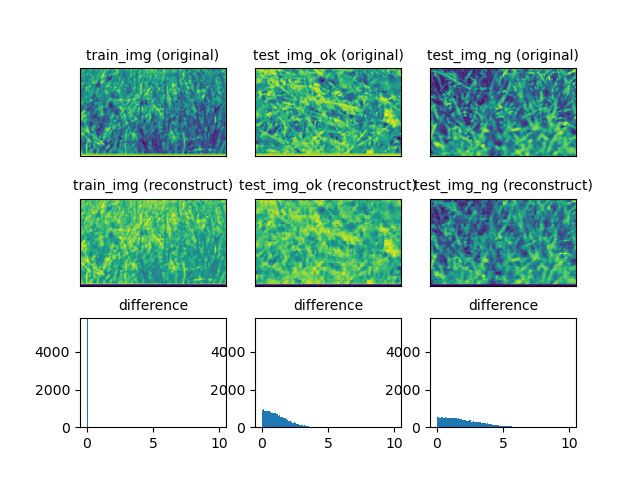
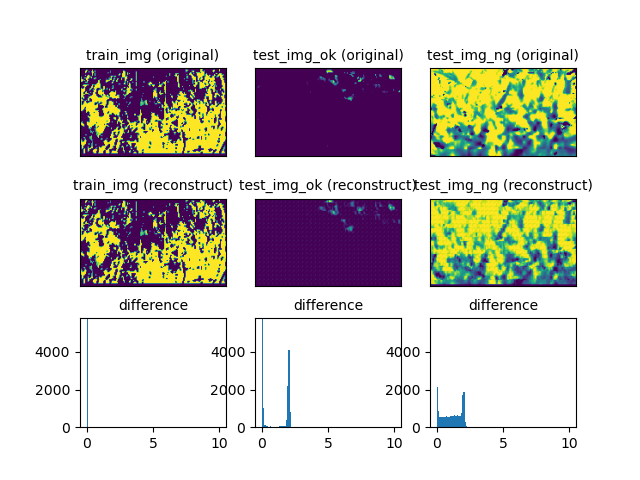
Feature_img Function has built

diff --git a/window_detect_irregular.py b/window_detect_irregular.py
@@ -8,6 +8,8 @@ from spmimage.feature_extraction.image import extract_simple_patches_2d, reconst
 import matplotlib.pyplot as plt
 import sys
 
+from FEATURE import Feature_img
+
 
 
 
@@ -235,79 +237,121 @@ def make_sharp_kernel(k: int):
 
 
 
-# 本編
-"""
-（学習に関するパラメータについて）
-patch_size : 学習用の画像を学習のために分割した際の、分割された画像(=patch)１つ１つのサイズ
-n_components : 生成する基底ベクトルの本数
-transform_n_nonzero_coefs : 画像を再構成するために使用を許される基底ベクトルの本数。言い換えれば、Xの非ゼロ成分の個数（L0ノルム）
-max_iter : 詳細未詳。学習の反復回数の上限？
-"""
+
+
+
+
+# OpenCVによるエッジ強調（現在は標準入力でカーネルパラメータ指定）
+def edge_Enphasis():
+    edge_enphasis = sys.argv
+    if len(edge_enphasis)<2:
+        print(f'No argument "edge_enphasis" :python {edge_enphasis[0]} true;str kernel-param;int or false;str')
+        sys.exit()
+
+    if edge_enphasis[1]=="true":
+        img = cv2.imread("img_data/data_old/img_train_RPC.jpg")
+        img = cv2.cvtColor(img, cv2.COLOR_BGR2RGB)
+        k = 1
+        kernel = np.array([[0, 1, 0],
+                           [1, -4, 1],
+                           [0, 1, 0]], np.float32)
+        img = cv2.filter2D(img, -1, kernel)
+        cv2.imwrite("img_data/use_img/img_train_RPC.jpg", img)
+    elif edge_enphasis[1]=="false":
+        img = cv2.imread("img_data/data_old/img_train_RPC.jpg")
+        cv2.imwrite("img_data/use_img/img_train_RPC.jpg", img)
+    else:
+        print(f'No argument "edge_enphasis" :python {edge_enphasis[0]} true;str kernel-param;int or false;str')
+        sys.exit()
+
+
+def read_img(path_list):
+    treat = Feature_img(path_list)
+    feature = sys.argv
+    if len(feature)<2:
+        pass
+    
+    elif feature[1]=="vari":
+        treat.vari()
+        path_list = treat.output()
+    
+    elif feature[1]=="enphasis":
+        treat.enphasis()
+        path_list = treat.output()
+    else:
+        print(f"{feature[1]} was not found in Feature_img Function.\nFeatures are vari, enphasis, or nothing as normal.")
+        sys.exit()
+        
+    # 一旦二分の一で画像上部排除
+    train_img = np.asarray(Image.open(path_list[0]).convert('L'))
+    test_img_ok=np.asarray(Image.open(path_list[1]).convert('L'))
+    test_img_ng=np.asarray(Image.open(path_list[2]).convert('L'))
+    train_img = train_img[int(0.5*train_img.shape[0]):]
+    test_img_ok = test_img_ok[int(0.5*test_img_ok.shape[0]):]
+    test_img_ng = test_img_ng[int(-train_img.shape[0]):, :train_img.shape[1]]
+    
+    # 画像を導入
+    """
+    edge_mode=False
+    if edge_mode:
+        train_img = np.asarray(Image.open("img_data/tochigi4_edge.jpg").convert('L'))
+        test_img_ok=np.asarray(Image.open("img_data/tochigi5_edge.jpg").convert('L'))
+        test_img_ng=np.asarray(Image.open("img_data/tochigi7_edge.jpg").convert('L'))
+    else:
+        # 一旦二分の一で画像上部排除
+        train_img = np.asarray(Image.open("img_data/use_img/img_train_RPC.jpg").convert('L'))
+        train_img = train_img[int(0.5*train_img.shape[0]):]
+        test_img_ok=np.asarray(Image.open("img_data/data_old/img_test_ok_RPC.jpg").convert('L'))
+        test_img_ok = test_img_ok[int(0.5*test_img_ok.shape[0]):]
+        test_img_ng=np.asarray(Image.open("img_data/data_old/img_1.jpg").convert('L'))
+        test_img_ng = test_img_ng[int(-train_img.shape[0]):, :train_img.shape[1]]
+    """
+    return train_img, test_img_ok, test_img_ng    
+    
+
+def window_detect(train_img, test_img_ok, test_img_ng):
+    # 探査領域の分割数を指定
+    detect_shape = (2, 3)
+
+    # 各画像を探査領域に分割してリストに収納
+    train_img_list, test_img_ok_list, test_img_ng_list, partial_size = img_window(train_img, test_img_ok, test_img_ng, detect_shape)
+
+    # 各探査領域に対して異常検出を行う
+    for k in range(prod(detect_shape)):
+        estimate(train_img_list[k], test_img_ok_list[k], test_img_ng_list[k], partial_size, d_num=k+1)
+
+
+def main():
+    # 本編
+    """
+    （学習に関するパラメータについて）
+    patch_size : 学習用の画像を学習のために分割した際の、分割された画像(=patch)１つ１つのサイズ
+    n_components : 生成する基底ベクトルの本数
+    transform_n_nonzero_coefs : 画像を再構成するために使用を許される基底ベクトルの本数。言い換えれば、Xの非ゼロ成分の個数（L0ノルム）
+    max_iter : 詳細未詳。学習の反復回数の上限？
+    """
+    """
+    （用いる画像について）
+    train_img   : 学習に用いる画像（１枚のみ）。スタック「しない」状況の画像
+    test_img_ok : スタック「しない」状況のためのテスト用画像
+    test_img_ng : スタック「する」状況(=異常)のためのテスト用画像
+
+    ＊全てモノクロに直して処理。
+    """
+    path_list = ["img_data/data_old/img_train_RPC.jpg", 
+                "img_data/data_old/img_test_ok_RPC.jpg",
+                "img_data/data_old/img_1.jpg"]
+    # edge_Enphasis()
+    train_img, test_img_ok, test_img_ng = read_img(path_list)
+    window_detect(train_img, test_img_ok, test_img_ng)
+    
+    
 patch_size=(5,5)
 n_components=6
 transform_n_nonzero_coefs=3
 max_iter=15
 
 
-
-# OpenCVによるエッジ強調（現在は標準入力でカーネルパラメータ指定）
-
-edge_enphasis = sys.argv
-if len(edge_enphasis)<2:
-    print(f'No argument "edge_enphasis" :python {edge_enphasis[0]} true;str kernel-param;int or false;str')
-    sys.exit()
-
-if edge_enphasis[1]=="true":
-    img = cv2.imread("img_data/img_train_RPC.jpg")
-    img = cv2.cvtColor(img, cv2.COLOR_BGR2RGB)
-    try:
-        kernel = make_sharp_kernel(int(edge_enphasis[2]))
-    except:
-        print(f'"kernel-param" should be given as int:python {edge_enphasis[0]} true;str kernel-param;int or false;str')
-        sys.exit()
-    img = cv2.filter2D(img, -1, kernel)
-    cv2.imwrite("results_data/img_train_RPC.jpg", img)
-    plt.figure(figsize=(10,8))
-    plt.imshow(img)
-    plt.show()
-elif edge_enphasis[1]=="false":
-    img = cv2.imread("img_data/img_train_RPC.jpg")
-    cv2.imwrite("results_data/img_train_RPC.jpg", img)
-else:
-    print(f'No argument "edge_enphasis" :python {edge_enphasis[0]} true;str kernel-param;int or false;str')
-    sys.exit()
-
-
-"""
-（用いる画像について）
-train_img   : 学習に用いる画像（１枚のみ）。スタック「しない」状況の画像
-test_img_ok : スタック「しない」状況のためのテスト用画像
-test_img_ng : スタック「する」状況(=異常)のためのテスト用画像
-
-＊全てモノクロに直して処理。
-"""
-# 画像を導入
-edge_mode=False
-if edge_mode:
-    train_img = np.asarray(Image.open("img_data/tochigi4_edge.jpg").convert('L'))
-    test_img_ok=np.asarray(Image.open("img_data/tochigi5_edge.jpg").convert('L'))
-    test_img_ng=np.asarray(Image.open("img_data/tochigi7_edge.jpg").convert('L'))
-else:
-    # 一旦二分の一で画像上部排除
-    train_img = np.asarray(Image.open("results_data/img_train_RPC.jpg").convert('L'))
-    train_img = train_img[int(0.5*train_img.shape[0]):]
-    test_img_ok=np.asarray(Image.open("img_data/data_old/img_test_ok_RPC.jpg").convert('L'))
-    test_img_ok = test_img_ok[int(0.5*test_img_ok.shape[0]):]
-    test_img_ng=np.asarray(Image.open("img_data/data_old/img_1.jpg").convert('L'))
-    test_img_ng = test_img_ng[int(-train_img.shape[0]):, :train_img.shape[1]]
-
-
-# 探査領域の分割数を指定
-detect_shape = (2, 3)
-
-# 各画像を探査領域に分割してリストに収納
-train_img_list, test_img_ok_list, test_img_ng_list, partial_size = img_window(train_img, test_img_ok, test_img_ng, detect_shape)
-
-# 各探査領域に対して異常検出を行う
-for k in range(prod(detect_shape)):
-    estimate(train_img_list[k], test_img_ok_list[k], test_img_ng_list[k], partial_size, d_num=k+1)
+if __name__ == "__main__":
+    main()
+    

diff --git a/FEATURE.py b/FEATURE.py
@@ -1,0 +1,97 @@
+import numpy as np
+import cv2
+from PIL import Image
+from matplotlib import pyplot as plt
+from time import time
+
+class Feature_img():
+    output_img_list = None
+    def __init__(self, path_list):
+        self.path_list = path_list
+
+    def vari(self):
+        self.output_img_list = []
+        for i in range(len(self.path_list)):
+            self.org_img = cv2.imread(self.path_list[i],1)
+
+            self.vari_list_np = np.ones((self.org_img.shape[0],self.org_img.shape[1]), np.float64)
+            self.output_img = np.ones((self.org_img.shape[0],self.org_img.shape[1]), np.uint8)
+            for i in range(self.org_img.shape[0]):
+                for j in range(self.org_img.shape[1]):
+                    vari = 0.0
+                    img_num = 0
+                    b = float(self.org_img[i][j][0])
+                    g = float(self.org_img[i][j][1])
+                    r = float(self.org_img[i][j][2])
+                    if b < 125:
+                        vari_d = g+r-b
+                        if vari_d != 0:
+                            vari = (g-r)/(g+r-b)
+                            if vari < 0.0:
+                                vari = 0.0
+                    else:
+                        vari = 0
+                    # vari = vari*255/9.0
+                    self.vari_list_np[i][j] = vari
+
+            vari_max = np.amax(self.vari_list_np)
+            vari_min = np.amin(self.vari_list_np)
+            print("vari max: "+str(np.amax(self.vari_list_np)))
+            print("vari min: "+str(np.amin(self.vari_list_np)))
+            for i in range(self.org_img.shape[0]):
+                for j in range(self.org_img.shape[1]):
+                    self.vari_list_np[i][j] = 100*(self.vari_list_np[i][j] - vari_min)/(vari_max - vari_min)
+                    if self.vari_list_np[i][j] > 1.0:
+                        self.vari_list_np[i][j] = 1.0
+                    self.vari_list_np[i][j] = 255*self.vari_list_np[i][j]
+                    # print(self.vari_list_np[i][j])
+                    # print(np.uint8(self.vari_list_np[i][j]))
+                    self.output_img[i][j] = np.uint8(self.vari_list_np[i][j])
+            print("len(self.vari_list_np): "+str(self.vari_list_np.shape))
+            print("vari max: "+str(np.amax(self.vari_list_np)))
+            print("vari min: "+str(np.amin(self.vari_list_np)))
+            print(self.vari_list_np)
+
+            #cv2.imshow("self.org_img", cv2.resize(self.org_img,dsize=(534,400)))
+            #cv2.imshow("VARI_img",cv2.resize(self.output_img,dsize=(534,460)))
+
+            self.save_name = f"img_data/use_img/vari_{i}.jpg"
+            cv2.imwrite(self.save_name, self.output_img)
+            self.output_img_list.append(self.save_name)
+        self.output()
+    
+    def enphasis(self):
+        self.output_img_list = []
+        for i in range(len(self.path_list)):
+            self.org_img = cv2.imread(self.path_list[i], 1)
+            self.org_img = cv2.cvtColor(self.org_img, cv2.COLOR_BGR2RGB)
+            kernel = np.array([[0, 1, 0],
+                            [1, -4, 1],
+                            [0, 1, 0]], np.float32)
+            self.output_img = cv2.filter2D(self.org_img, -1, kernel)
+            self.save_name = f"img_data/use_img/edge_enphasis_{i+1}.jpg"
+            cv2.imwrite(self.save_name, self.output_img)
+            self.output_img_list.append(self.save_name)
+            self.output()
+    
+    def output(self):
+        return self.output_img_list
+    
+    def show(self):
+        k = 0
+        for img in self.output_img_list:
+            plt.subplot(int(f"1{len(self.output_img_list)}{k}"))
+            plt.imshow(img)
+            ax = plt.gca()
+            ax.axes.xaxis.set_visible(False)
+            ax.axes.yaxis.set_visible(False)
+            plt.title(f"img_{k+1}")
+            k += 1
+        plt.show()
+
+
+
+
+if __name__ == "__main__":
+    feat = Feature_img(["img_data/data_old/img_train_RPC.jpg"])
+    train_img_path = feat.vari()
